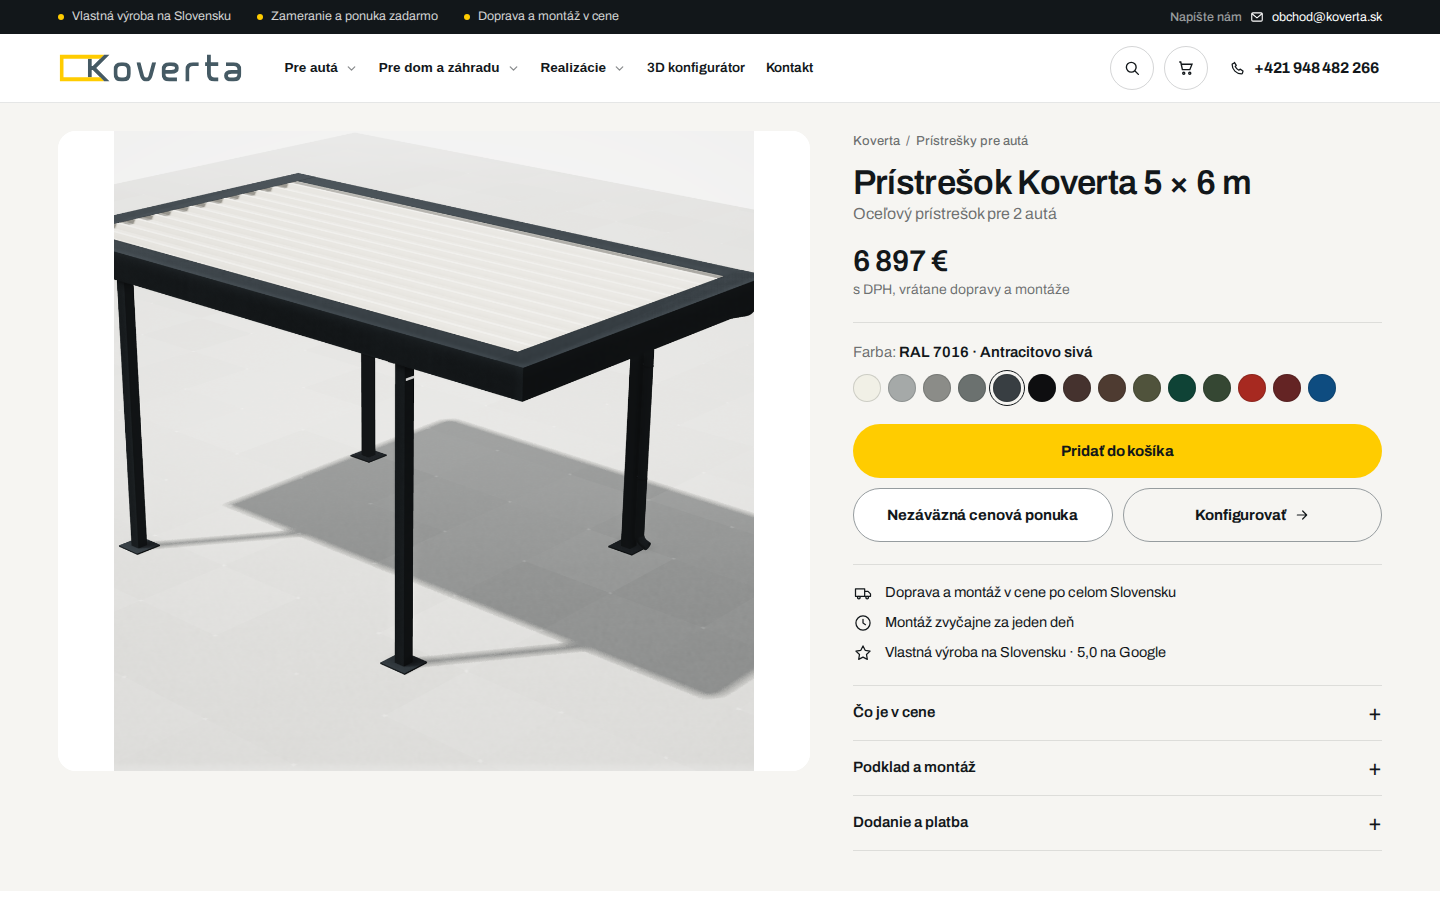
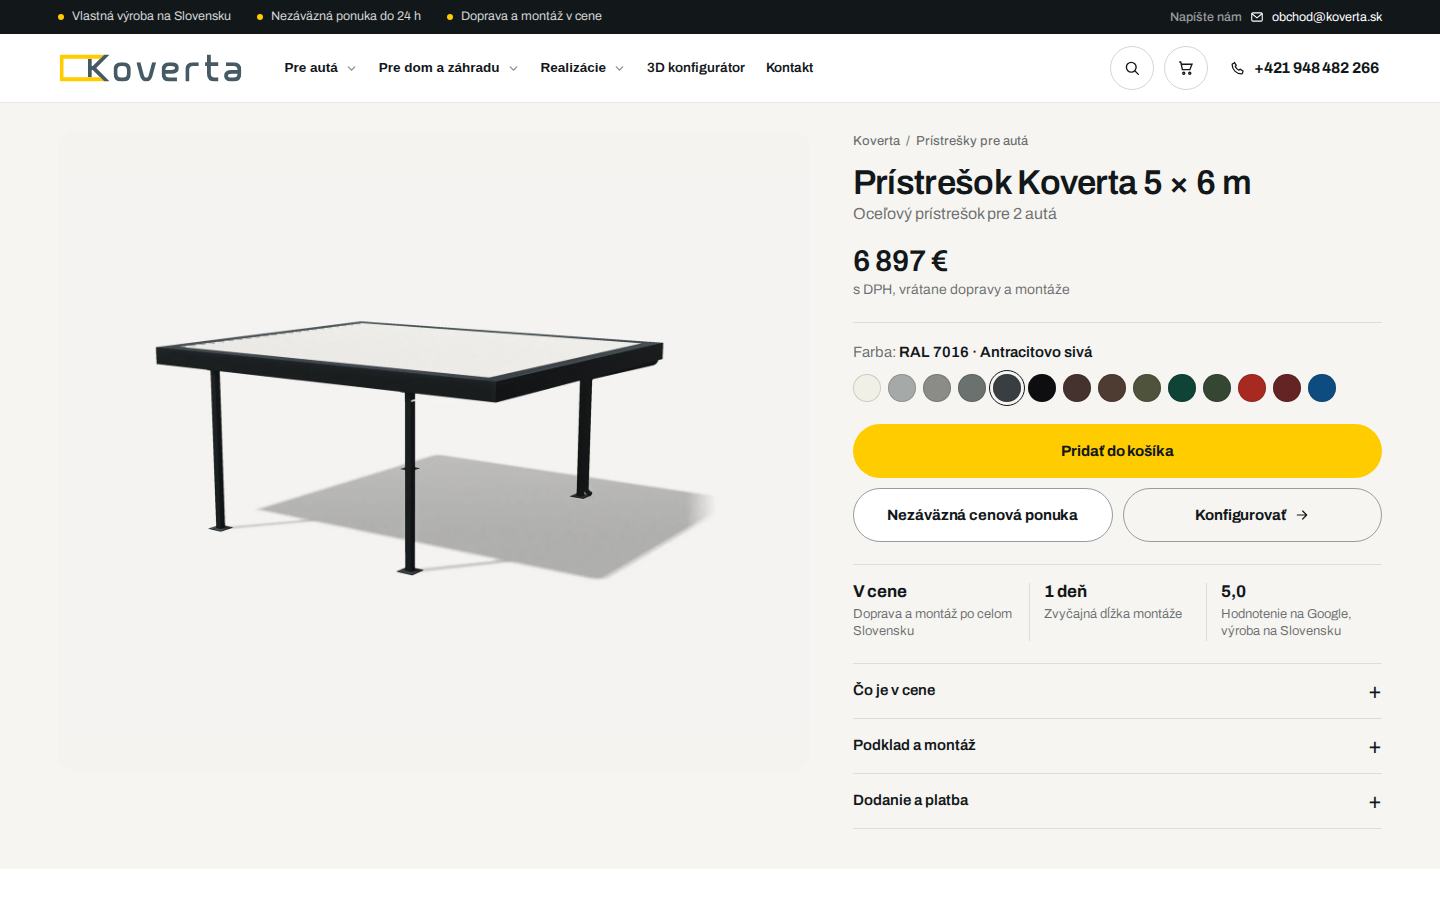
Produktová stránka: fakty bez piktogramov, farby na telefóne v dvoch radoch
Claude-Session: https://claude.ai/code/session_01JYvMuoB138zrgAuzQeZRab

diff --git a/shopify-tema/assets/koverta-product.css b/shopify-tema/assets/koverta-product.css
@@ -172,8 +172,7 @@
   .kp-cena { margin-top: 14px; }
   .kp-cena strong { font-size: 26px; }
   .kp-farba { margin-top: 16px; padding-top: 14px; gap: 10px; }
-  .kp-farba__rad { flex-wrap: nowrap; overflow-x: auto; padding: 4px 4px 6px; margin: -4px -4px 0; scrollbar-width: none; }
-  .kp-farba__rad::-webkit-scrollbar { display: none; }
+  .kp-farba__rad { gap: 8px; }
   .kp .kp-farba__vzor { flex: none; }
   .kp .kp-size { grid-template-columns: minmax(0, 1fr); }
   .kp-tabulka > div { grid-template-columns: minmax(0, .9fr) minmax(0, 1.1fr); gap: 12px; }
@@ -258,3 +257,11 @@
 .kp .kp-rozmery .kp-h2 { margin-bottom: 6px; }
 .kp .kp-rozmery__sub { margin: 0; max-width: 60ch; }
 .kp-gal__stage, .kp-gal__slide--vizual { background: #f4f3f0; }
+
+/* Fakty pod tlačidlami: bez piktogramov, číslo a krátky popis — tak, ako to
+   majú výrobcovia prémiových produktov. */
+.kp .kp-fakty { display: grid; grid-template-columns: repeat(3, 1fr); margin: 22px 0 0; padding: 18px 0 0; border-top: 1px solid var(--k-hair); }
+.kp-fakty > div { padding: 0 14px; border-left: 1px solid var(--k-hair); }
+.kp-fakty > div:first-child { padding-left: 0; border-left: 0; }
+.kp-fakty dt { margin: 0 0 4px; color: var(--k-ink); font: 700 17px/1.1 var(--k-head); letter-spacing: -0.01em; }
+.kp-fakty dd { margin: 0; color: var(--k-muted); font: 400 13px/1.35 var(--k-body); }

diff --git a/shopify-zdroj/assets/koverta-product.css b/shopify-zdroj/assets/koverta-product.css
@@ -172,8 +172,7 @@
   .kp-cena { margin-top: 14px; }
   .kp-cena strong { font-size: 26px; }
   .kp-farba { margin-top: 16px; padding-top: 14px; gap: 10px; }
-  .kp-farba__rad { flex-wrap: nowrap; overflow-x: auto; padding: 4px 4px 6px; margin: -4px -4px 0; scrollbar-width: none; }
-  .kp-farba__rad::-webkit-scrollbar { display: none; }
+  .kp-farba__rad { gap: 8px; }
   .kp .kp-farba__vzor { flex: none; }
   .kp .kp-size { grid-template-columns: minmax(0, 1fr); }
   .kp-tabulka > div { grid-template-columns: minmax(0, .9fr) minmax(0, 1.1fr); gap: 12px; }
@@ -258,3 +257,11 @@
 .kp .kp-rozmery .kp-h2 { margin-bottom: 6px; }
 .kp .kp-rozmery__sub { margin: 0; max-width: 60ch; }
 .kp-gal__stage, .kp-gal__slide--vizual { background: #f4f3f0; }
+
+/* Fakty pod tlačidlami: bez piktogramov, číslo a krátky popis — tak, ako to
+   majú výrobcovia prémiových produktov. */
+.kp .kp-fakty { display: grid; grid-template-columns: repeat(3, 1fr); margin: 22px 0 0; padding: 18px 0 0; border-top: 1px solid var(--k-hair); }
+.kp-fakty > div { padding: 0 14px; border-left: 1px solid var(--k-hair); }
+.kp-fakty > div:first-child { padding-left: 0; border-left: 0; }
+.kp-fakty dt { margin: 0 0 4px; color: var(--k-ink); font: 700 17px/1.1 var(--k-head); letter-spacing: -0.01em; }
+.kp-fakty dd { margin: 0; color: var(--k-muted); font: 400 13px/1.35 var(--k-body); }
